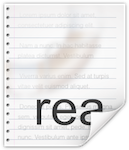
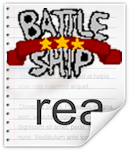
Read Me editado

Changed region(s): [[0.031, 0.0533, 0.9612, 0.5333]]

diff --git a/README.md b/README.md
@@ -28,7 +28,12 @@ Iremos realizar uma versão utilizando a biblioteca PyGame para o projeto.
 **METAS**
 - [x] Aprender a usar o Github
 - [x] Trabalho em Equipe
-- [ ] Divisão das Tarefas
+- [x] Divisão das Tarefas
+- [x] Realização do Background
+- [x] Adicionando asteróides
+- [x] Adicionando naves
+- [ ] Adicionar física de colisão
+- [x] Criar Menu 
 
 ## Instalação
 
